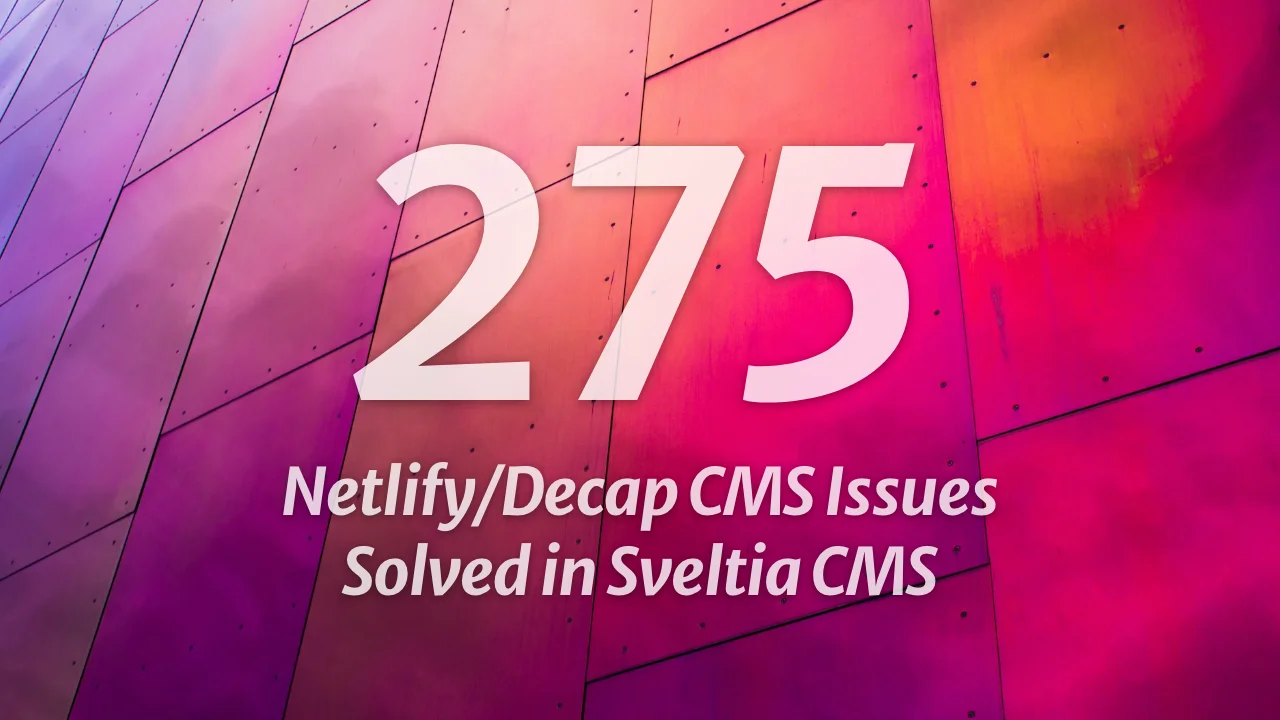
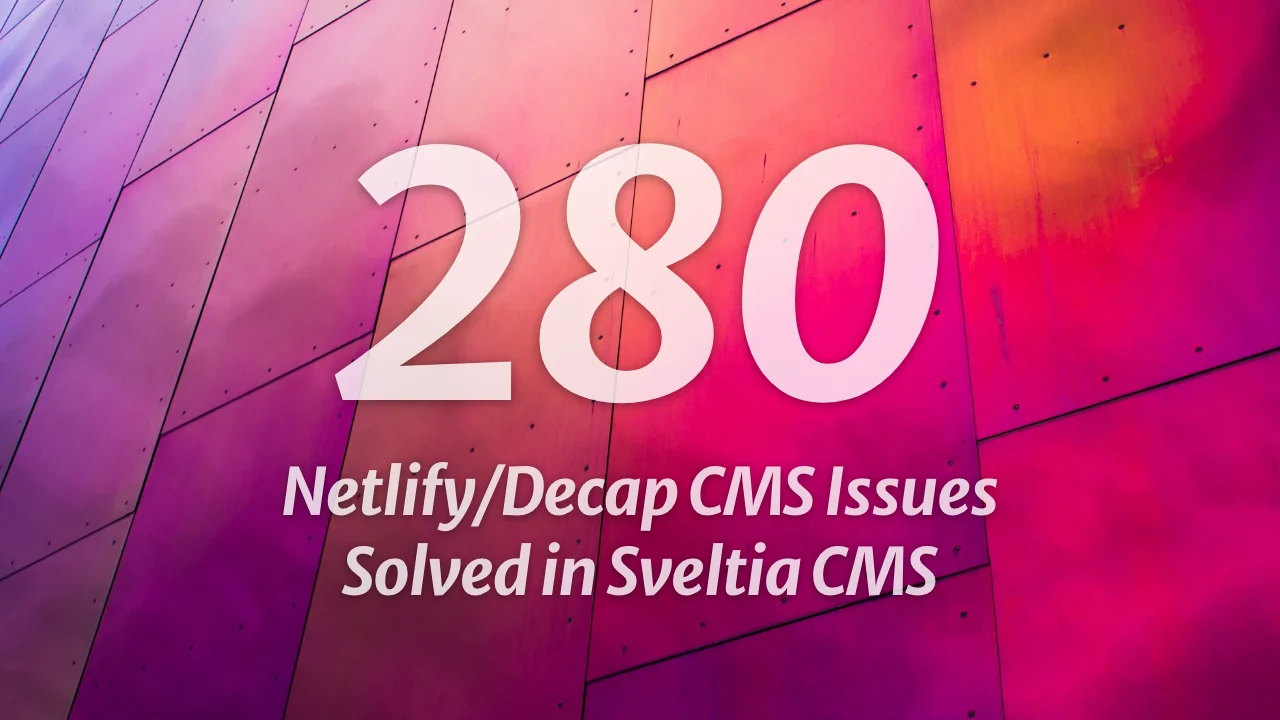
[skip ci] Update README.md

Changed region(s): [[0.25, 0.1833, 0.75, 0.5806]]

diff --git a/README.md b/README.md
@@ -1,6 +1,6 @@
 # Sveltia CMS: Netlify/Decap CMS successor
 
-Sveltia CMS is a Git-based lightweight headless CMS under active development as a modern, powerful, direct replacement for Netlify CMS (now Decap CMS). We have picked up where they left off and have already solved over 275 issues reported in the predecessor’s repository, ranging from critical bugs to top feature requests.
+Sveltia CMS is a Git-based lightweight headless CMS under active development as a modern, powerful, direct replacement for Netlify CMS (now Decap CMS). We have picked up where they left off and have already solved over 280 issues reported in the predecessor’s repository, ranging from critical bugs to top feature requests.
 
 Built from the ground up, Sveltia CMS offers excellent UX, DX, performance, security and internationalization (i18n) support. Although some features are still missing, our numerous enhancements across the board ensure smooth daily workflows for content editors and developers alike.
 
@@ -175,7 +175,7 @@ While we fix reported bugs as quickly as possible, usually within 24 hours, our 
   - It works as a drop-in replacement for most use cases
   - Some missing features will be implemented before or shortly after GA
 - Tackling as many [Netlify/Decap CMS issues](https://github.com/decaporg/decap-cms/issues) as possible
-  - So far, **275+ issues, or 600+ if including duplicates, have been effectively solved** in Sveltia CMS (Yes, you read it right)
+  - So far, **280+ issues, or 600+ if including duplicates, have been effectively solved** in Sveltia CMS (Yes, you read it right)
   - Target:
     - 300 issues, or 600 if including duplicates, by GA — Almost there! 🚀
     - 450 issues, or 900 if including duplicates, in the future 💪
@@ -192,7 +192,7 @@ While we fix reported bugs as quickly as possible, usually within 24 hours, our 
 - Preparing top-notch [documentation](https://github.com/sveltia/sveltia-cms/issues/485)
 - Implementing our own enhancement ideas for every part of the product
 
-![275 Netlify/Decap CMS issues solved in Sveltia CMS](https://raw.githubusercontent.com/sveltia/sveltia-cms/main/docs/headline-1.webp?20251204)<br>
+![280 Netlify/Decap CMS issues solved in Sveltia CMS](https://raw.githubusercontent.com/sveltia/sveltia-cms/main/docs/headline-1.webp?20251228)<br>
 
 ## Differentiators
 
@@ -687,6 +687,7 @@ Sveltia CMS supports all the [built-in widgets](https://decapcms.org/docs/widget
   - Inline components are supported.[^267]
   - Field validation works as expected.[^279]
   - No error is raised in the browser console saying `Sent invalid data to remark`[^280] or `onValidate is not a function`.[^281]
+  - A link with kramdown inline attributes (e.g. `{:.class}`) is parsed correctly.[^317]
 - Enhancements to [event hooks](https://decapcms.org/docs/registering-events/):
   - Missing `identifier_field` won’t cause an error when the `preSave` hook is triggered.[^306]
   <!-- - Content can be modified in the `prePublish` hook (once we support editorial workflow).[^307] -->
@@ -2812,3 +2813,5 @@ This project would not have been possible without the open source Netlify CMS pr
 [^315]: Netlify/Decap CMS [#2035](https://github.com/decaporg/decap-cms/issues/2035), [#7362](https://github.com/decaporg/decap-cms/issues/7362), [#7543](https://github.com/decaporg/decap-cms/issues/7543)
 
 [^316]: Netlify/Decap CMS [#1152](https://github.com/decaporg/decap-cms/issues/1152)
+
+[^317]: Netlify/Decap CMS [#1464](https://github.com/decaporg/decap-cms/issues/1464)
